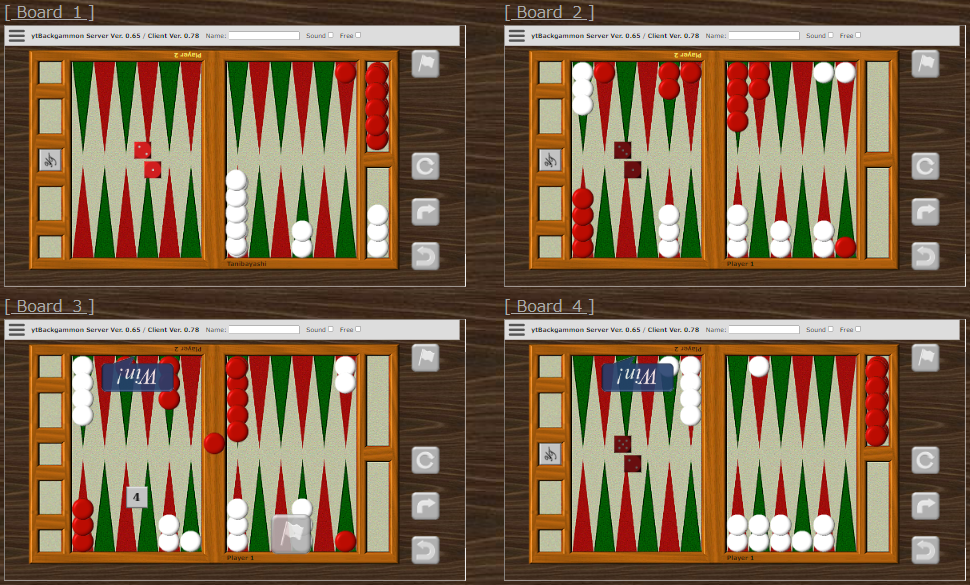
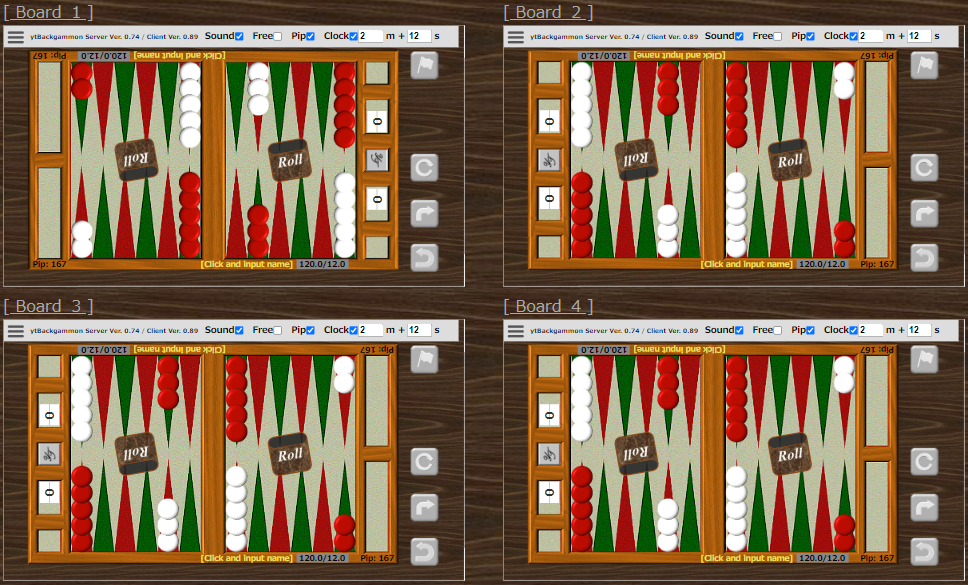
0.74/0.89 fix clock and double

diff --git a/app/static/ytbg.js b/app/static/ytbg.js
@@ -1082,6 +1082,8 @@ class ResignButton extends OnBoardButton {
             score = this.board.cube.value * 3;
         }
         console.log(`ResignButton.on_mouse_down_xy>score=${score}`);
+        this.board.player_clock[0].emit_stop();
+        this.board.player_clock[1].emit_stop();
         this.board.emit_turn(-1, this.board.player, false);
         this.board.score[1 - this.board.player].up(score);
     } // ResignButton.on_mouse_down_xy()
@@ -1294,7 +1296,7 @@ class Cube extends OnBoardImage {
             val = 64;
         }
 
-        this.board.player_clock[1-player].emit_stop();
+        this.board.player_clock[1-player].change_turn();
         this.emit(val, player, false);
     } // Cube.double()
 
@@ -1304,7 +1306,7 @@ class Cube extends OnBoardImage {
     accept_double() {
         console.log("Cube.accept_double()");
 
-        this.board.player_clock[1-this.player].emit_resume();
+        this.board.player_clock[this.player].change_turn();
         this.emit(this.value, this.player, true);
     } // Cube.accept_double()
 
@@ -1319,7 +1321,7 @@ class Cube extends OnBoardImage {
         if ( val == 1 ) {
             player = undefined;
         }
-        this.board.player_clock[player].emit_resume();
+        this.board.player_clock[1-player].change_turn();
         this.emit(val, player, true);
     } // Cube.cancel_double()
 

diff --git a/app/README.md b/app/README.md
@@ -23,7 +23,7 @@ http://www.ytani.net:8080/ytbackgammon/
 このソフトでは、実際には、同時にビデオチャット/音声チャットなどで、
 仲間とつないで「わいわい」やることを前提にしてます。
 
-* 操作性に関しては、オンラインゲームとしての使いやすさや効率より、
+* 操作性に関しては、厳密なルールチェックや効率より、
 実際のボードの使い勝手の再現を重視しているつもりです。
 * 複数のボードで、複数の対戦を同時進行できます。
 * 全てのボードを同時に見渡ることができますし、操作もできます。
@@ -42,8 +42,11 @@ http://www.ytani.net:8080/ytbackgammon/
 
 ### 注意事項
 
-* 回線品質によらず、
-Chromeのバージョンが古い場合は、タイムラグが生じやすいようです。
+* 以下のような要因で、タイムラグが生じることがあります。
+  - 回線品質
+  - PC、スマホの性能
+  - Chromeのバージョン
+  
 * 表示が崩れたときは、ブラウザの再読込(リロード)をしてみて下さい。
 
 
